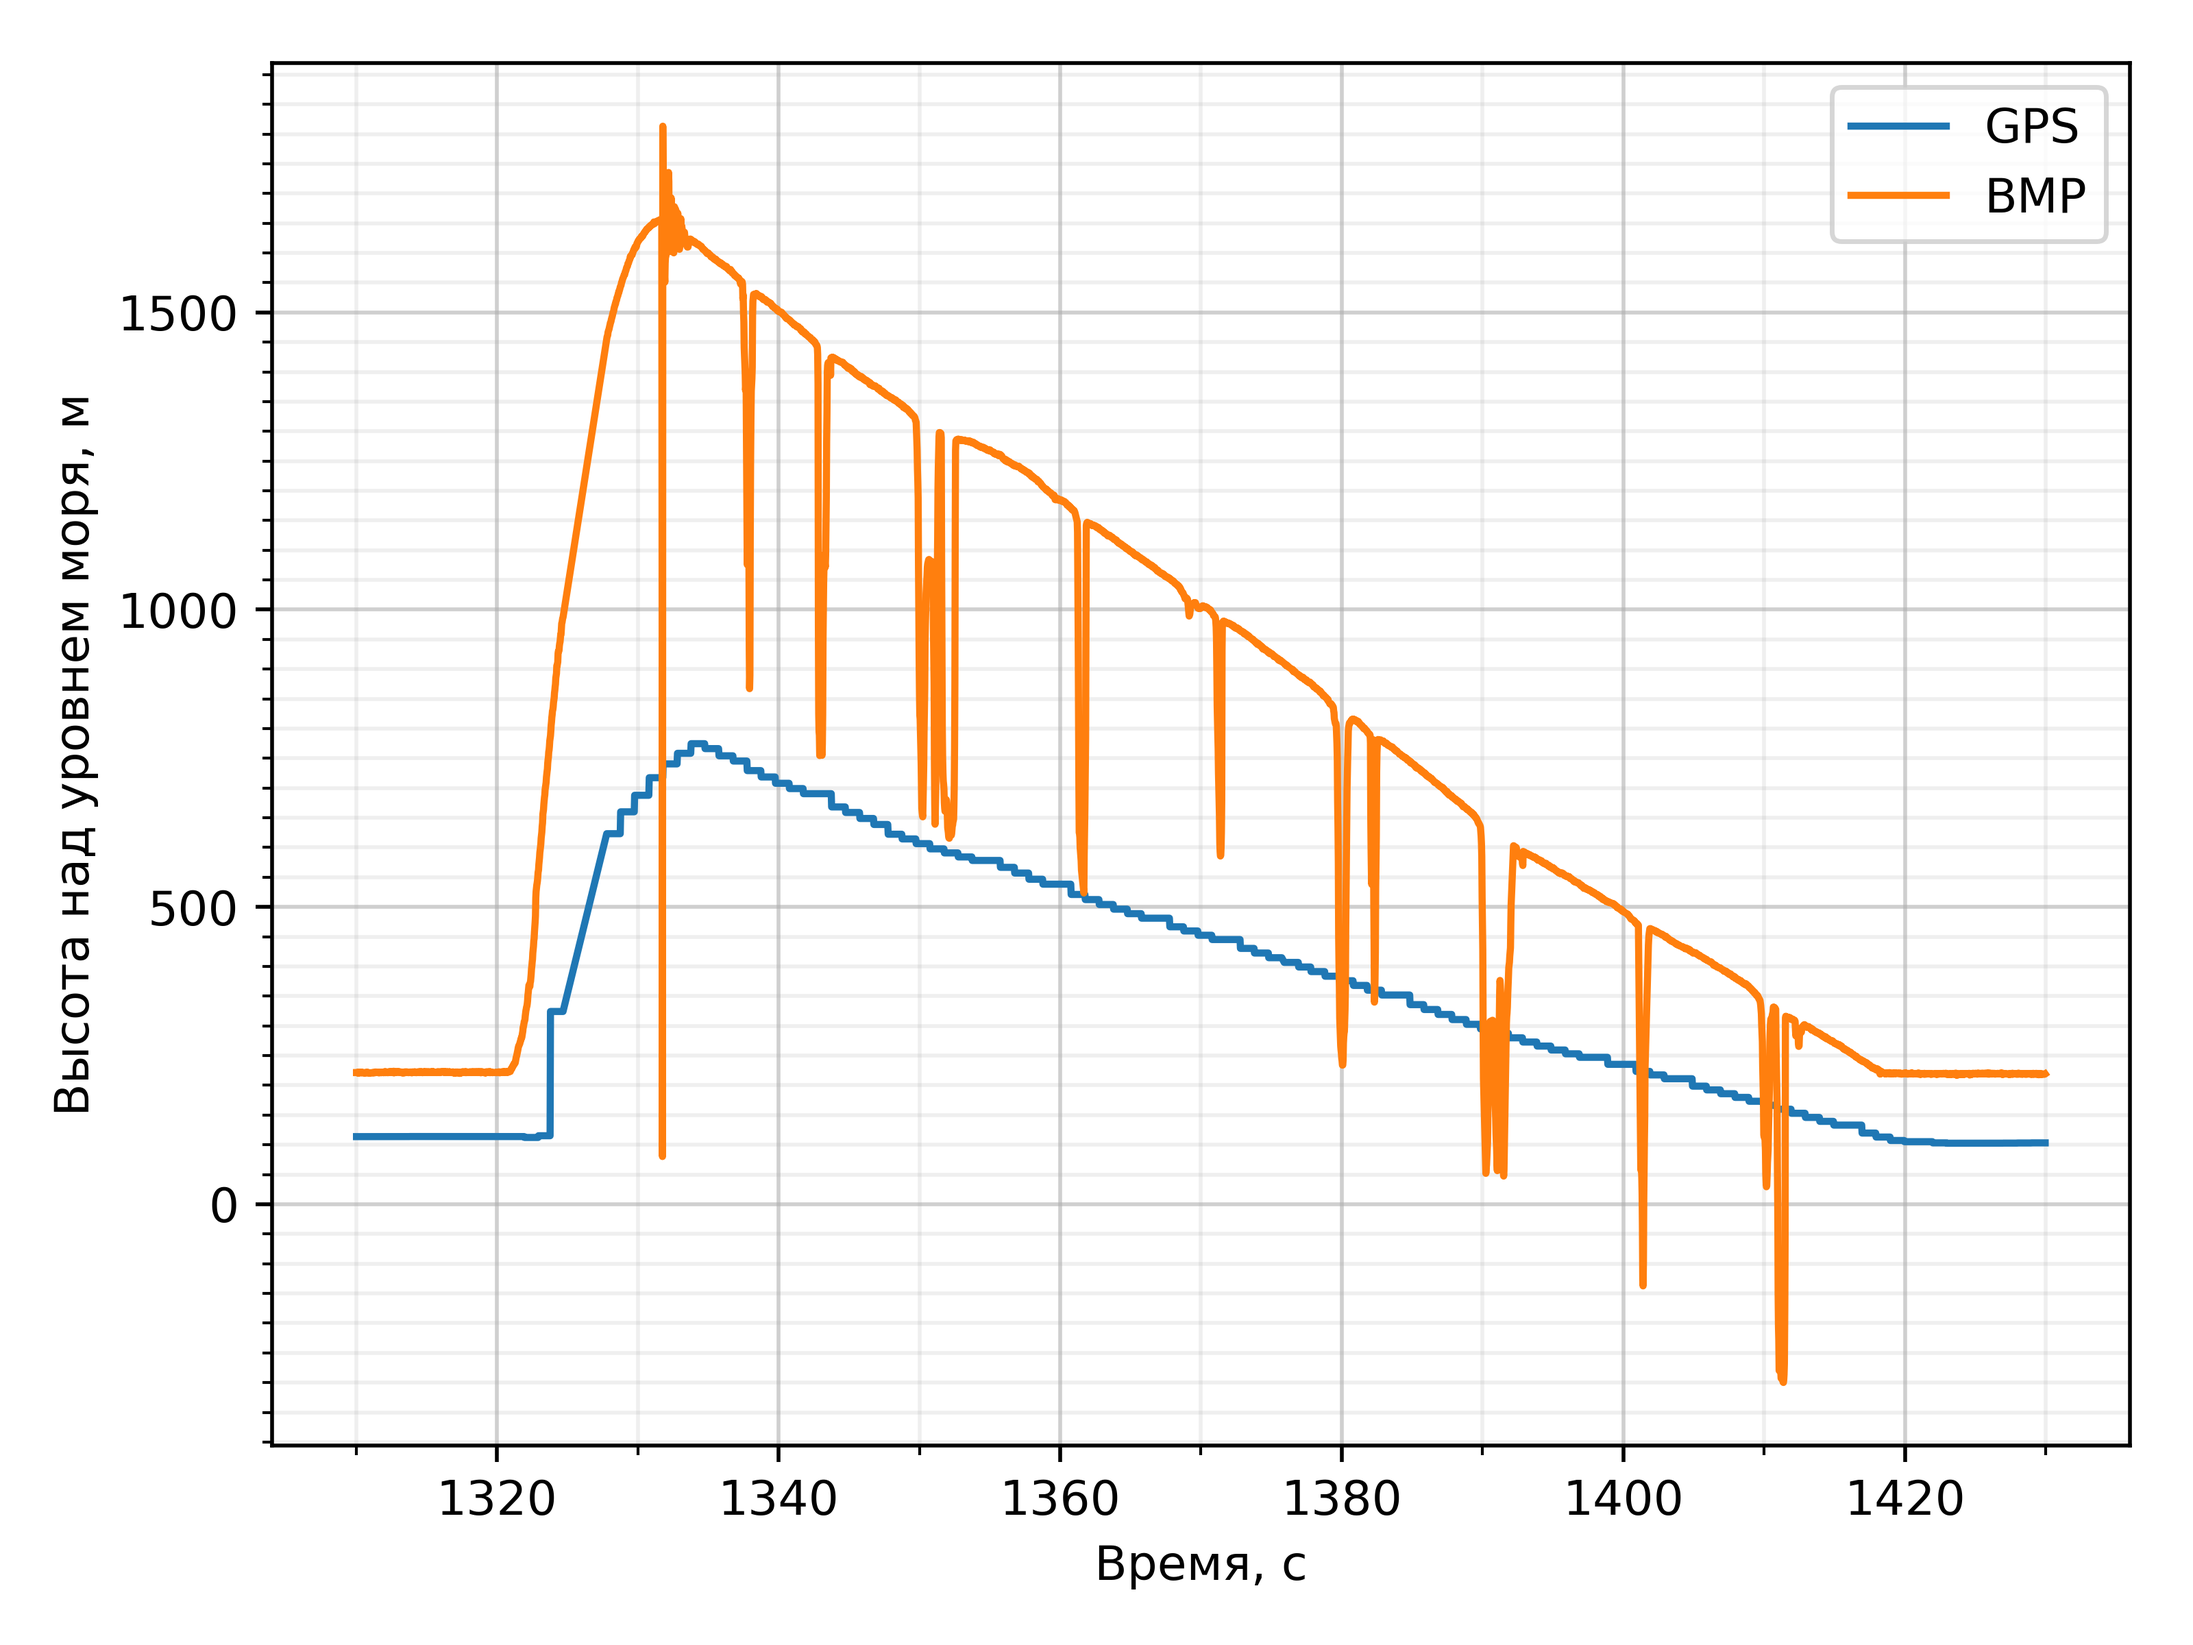
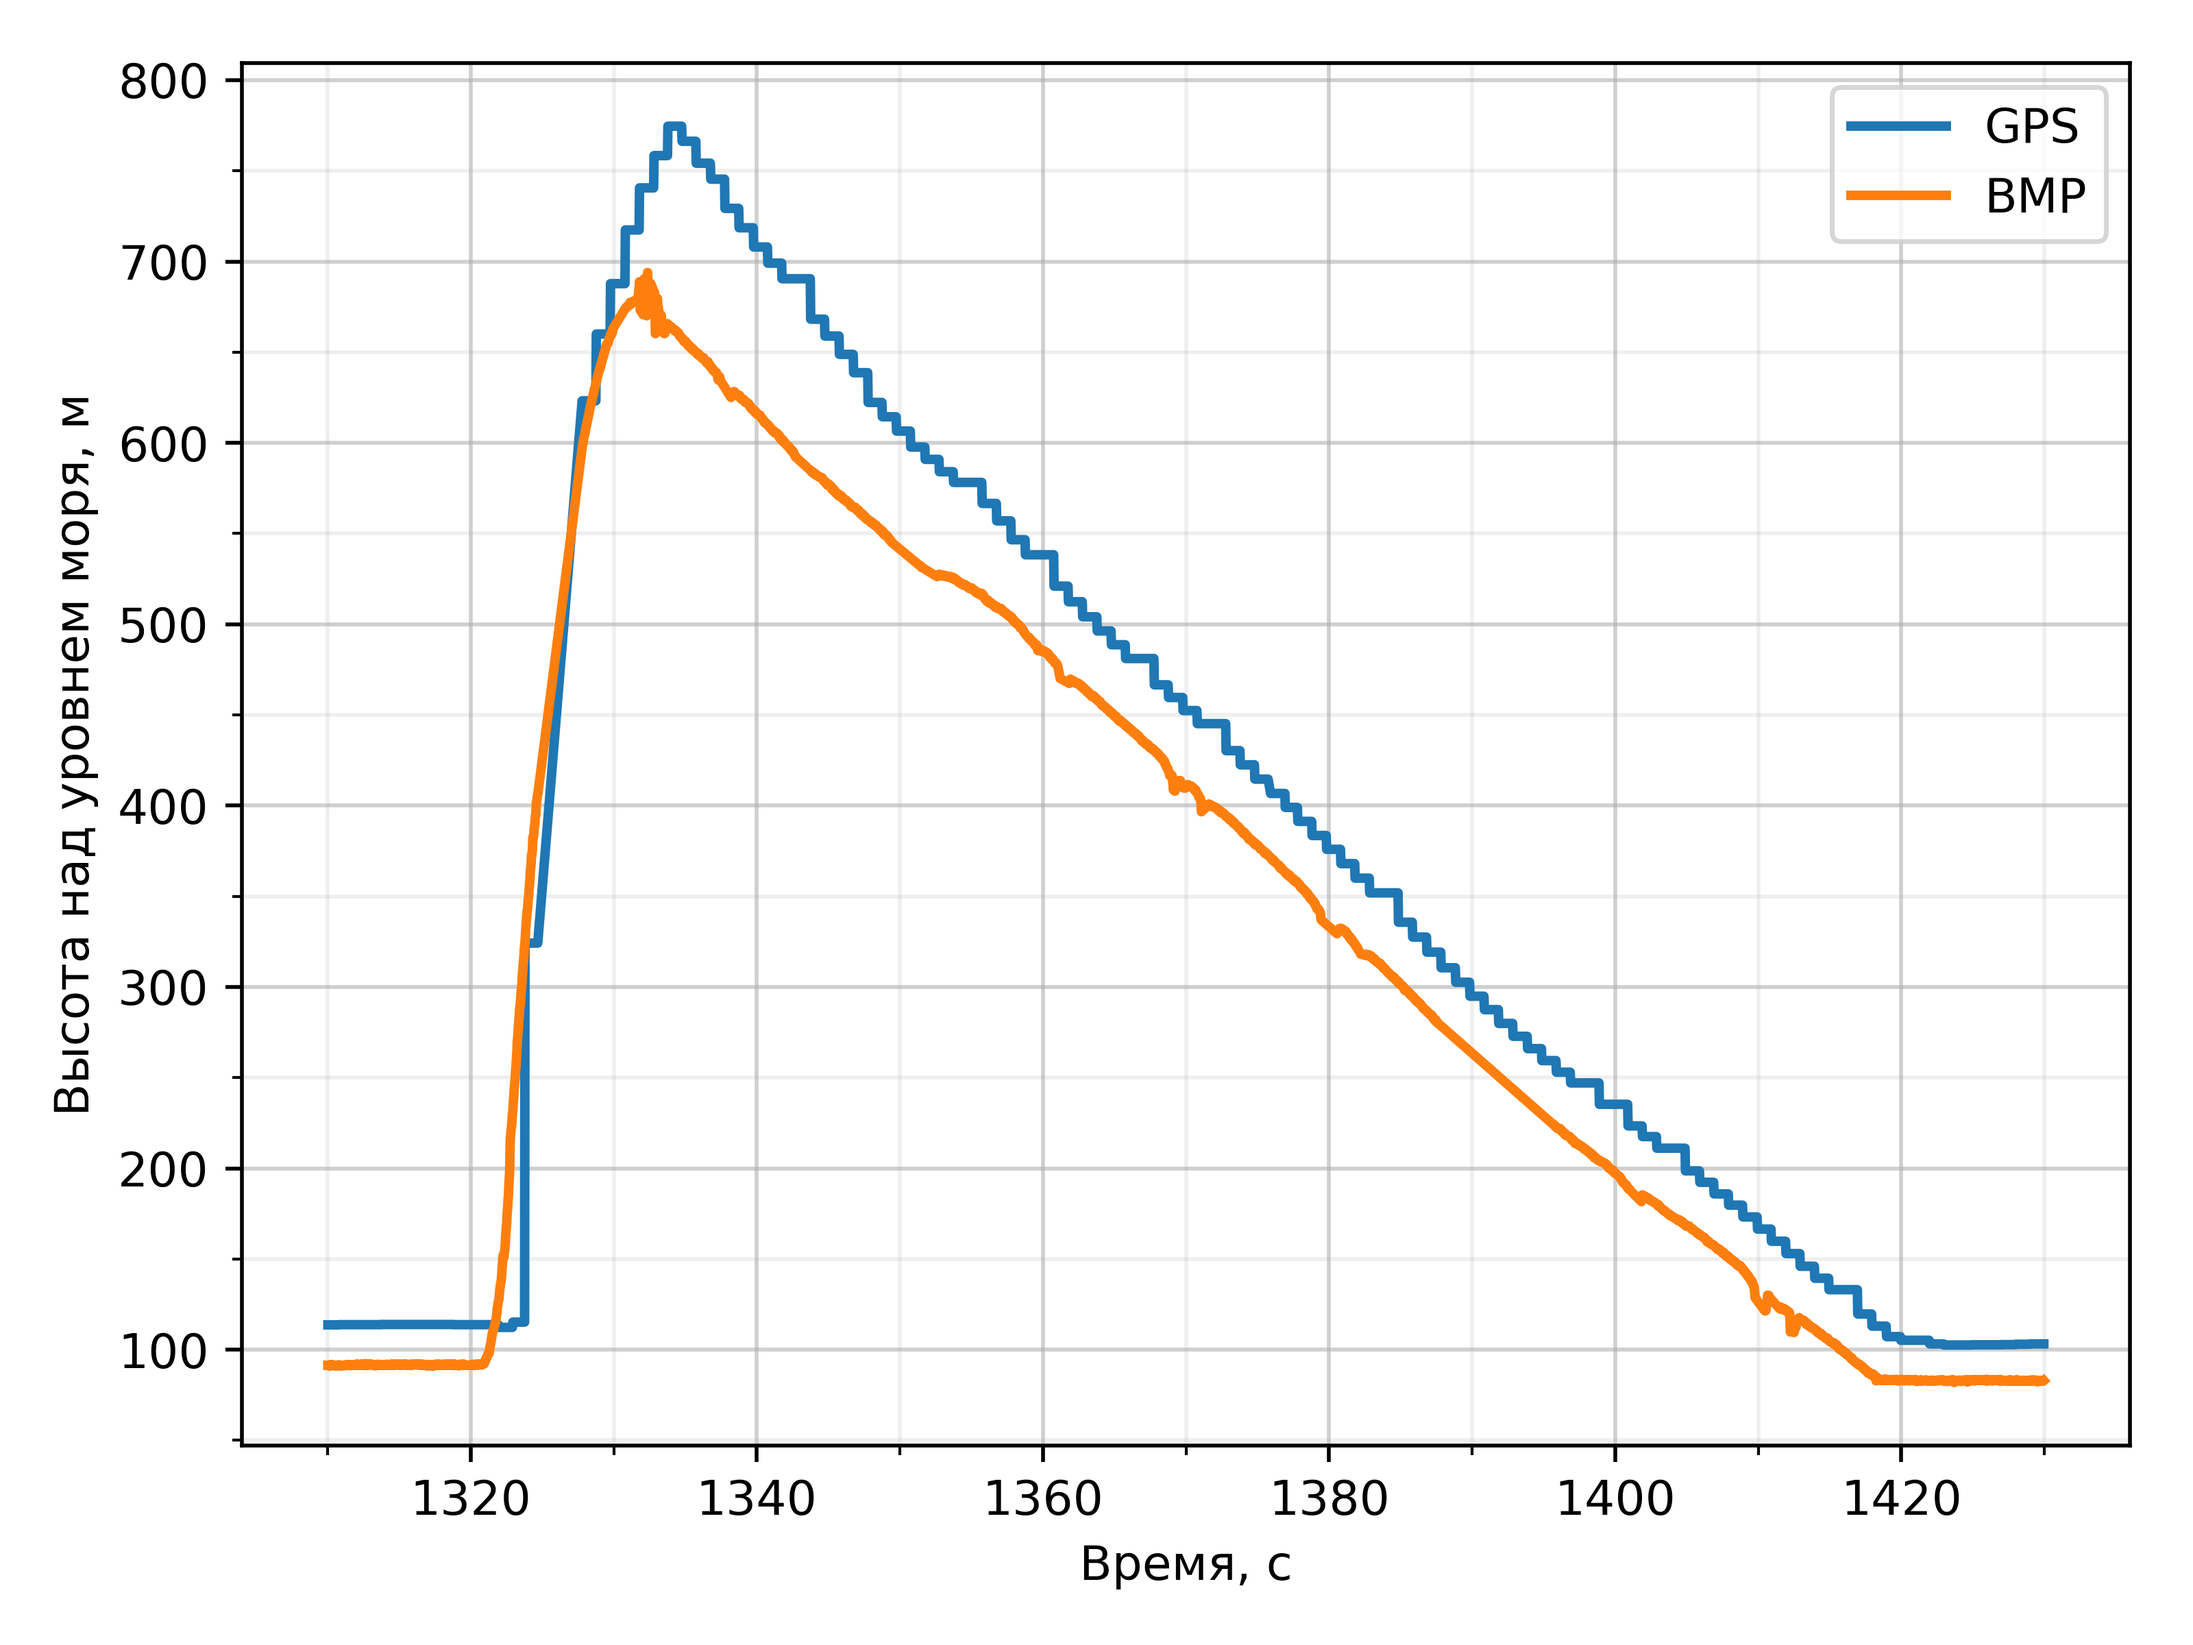
Cool filtrated height

diff --git a/height_plot.py b/height_plot.py
@@ -18,16 +18,28 @@ fig = plt.figure()
 
 ax = fig.add_subplot(111)
 
-ax.plot(time, height, label="GPS")
+ax.plot(time, height, label="GPS", linewidth=2)
 
 temp = [line[3] for line in data]
 press = [line[1] for line in data]
 
-for i in range(1, len(data)):
-    h = 44330 * (1.0 - pow(press[i]/press[0], 0.1903));
-    height.append(h)
+height = [44330 * (1.0 - (p / 101300) ** 0.1903) for p in press]
+
+x1, y1 = 1330, 700
+x2, y2 = 1420, 75
+k = (y1 - y2) / (x1 - x2)
+b = y1 - k * x1
+
+filtered_h = list()
+filtered_t = list()
+
+for i in range(len(data)):
+    if 1330 < time[i] < 1420 and abs(k * time[i] + b - height[i]) > 20:
+        continue
+    filtered_h.append(height[i])
+    filtered_t.append(time[i])
     
-ax.plot(time, height, label="BMP")
+ax.plot(filtered_t, filtered_h, label="BMP", linewidth=2)
 ax.legend()
 
 ax.set_xlabel("Время, с")
